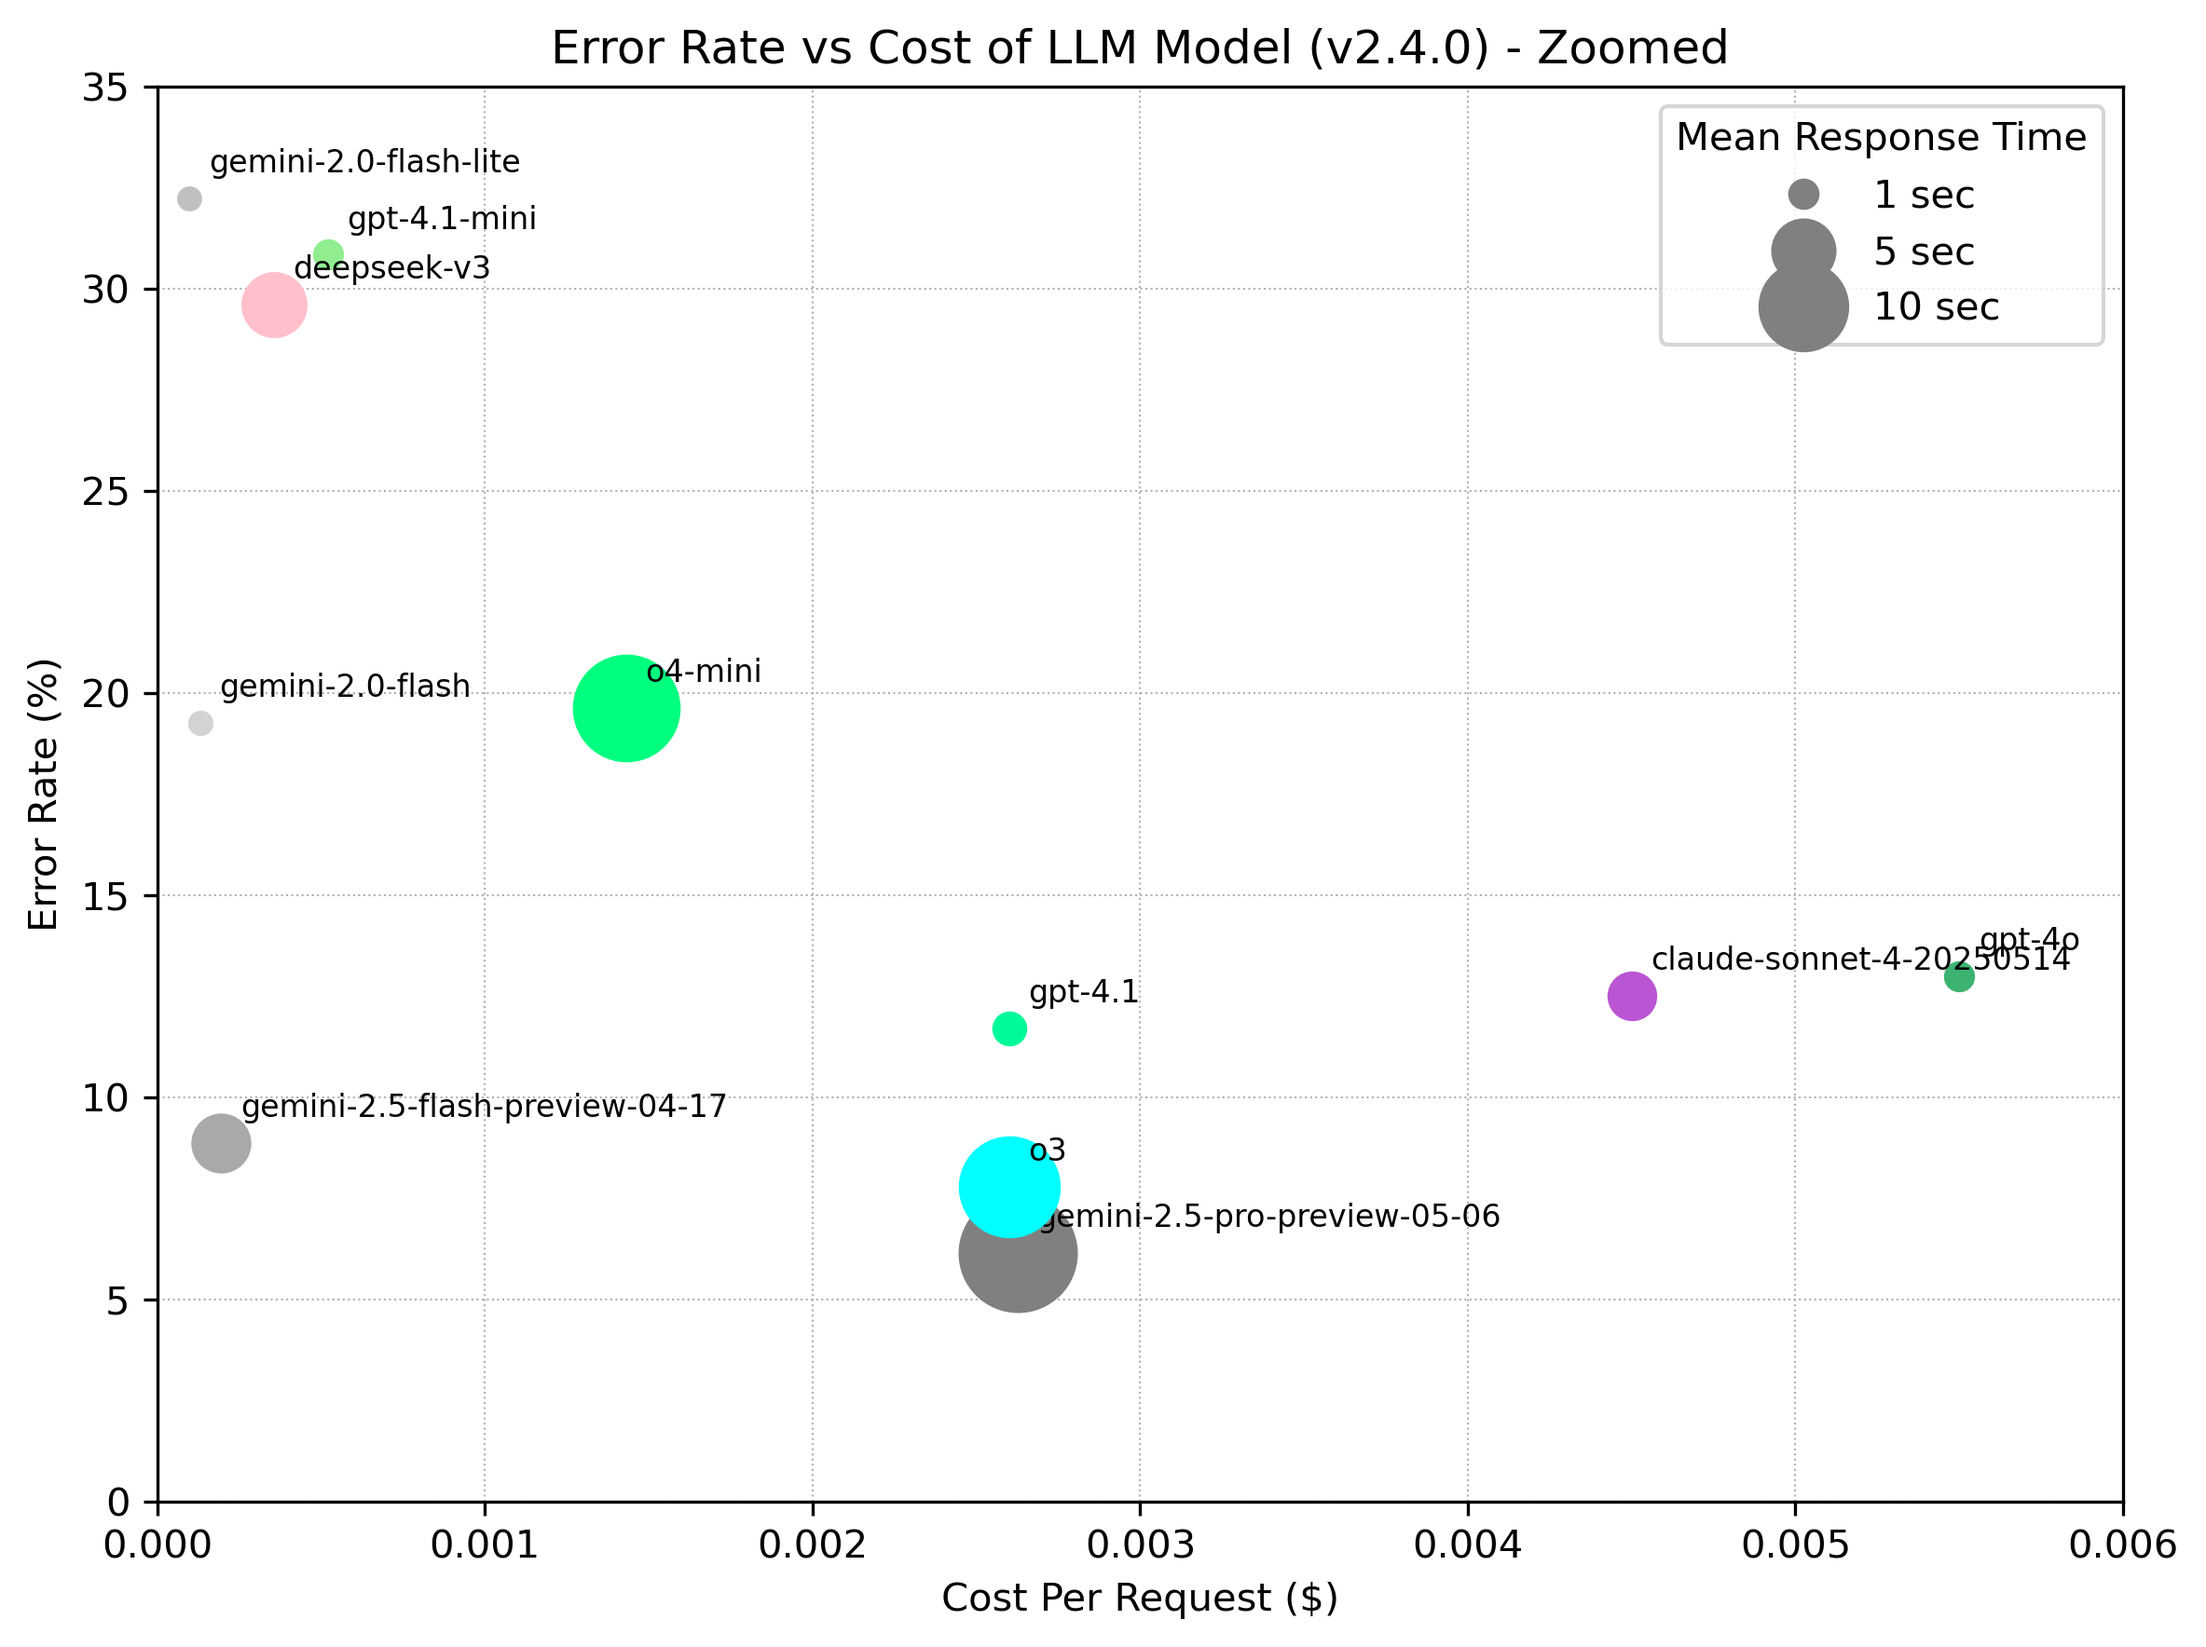
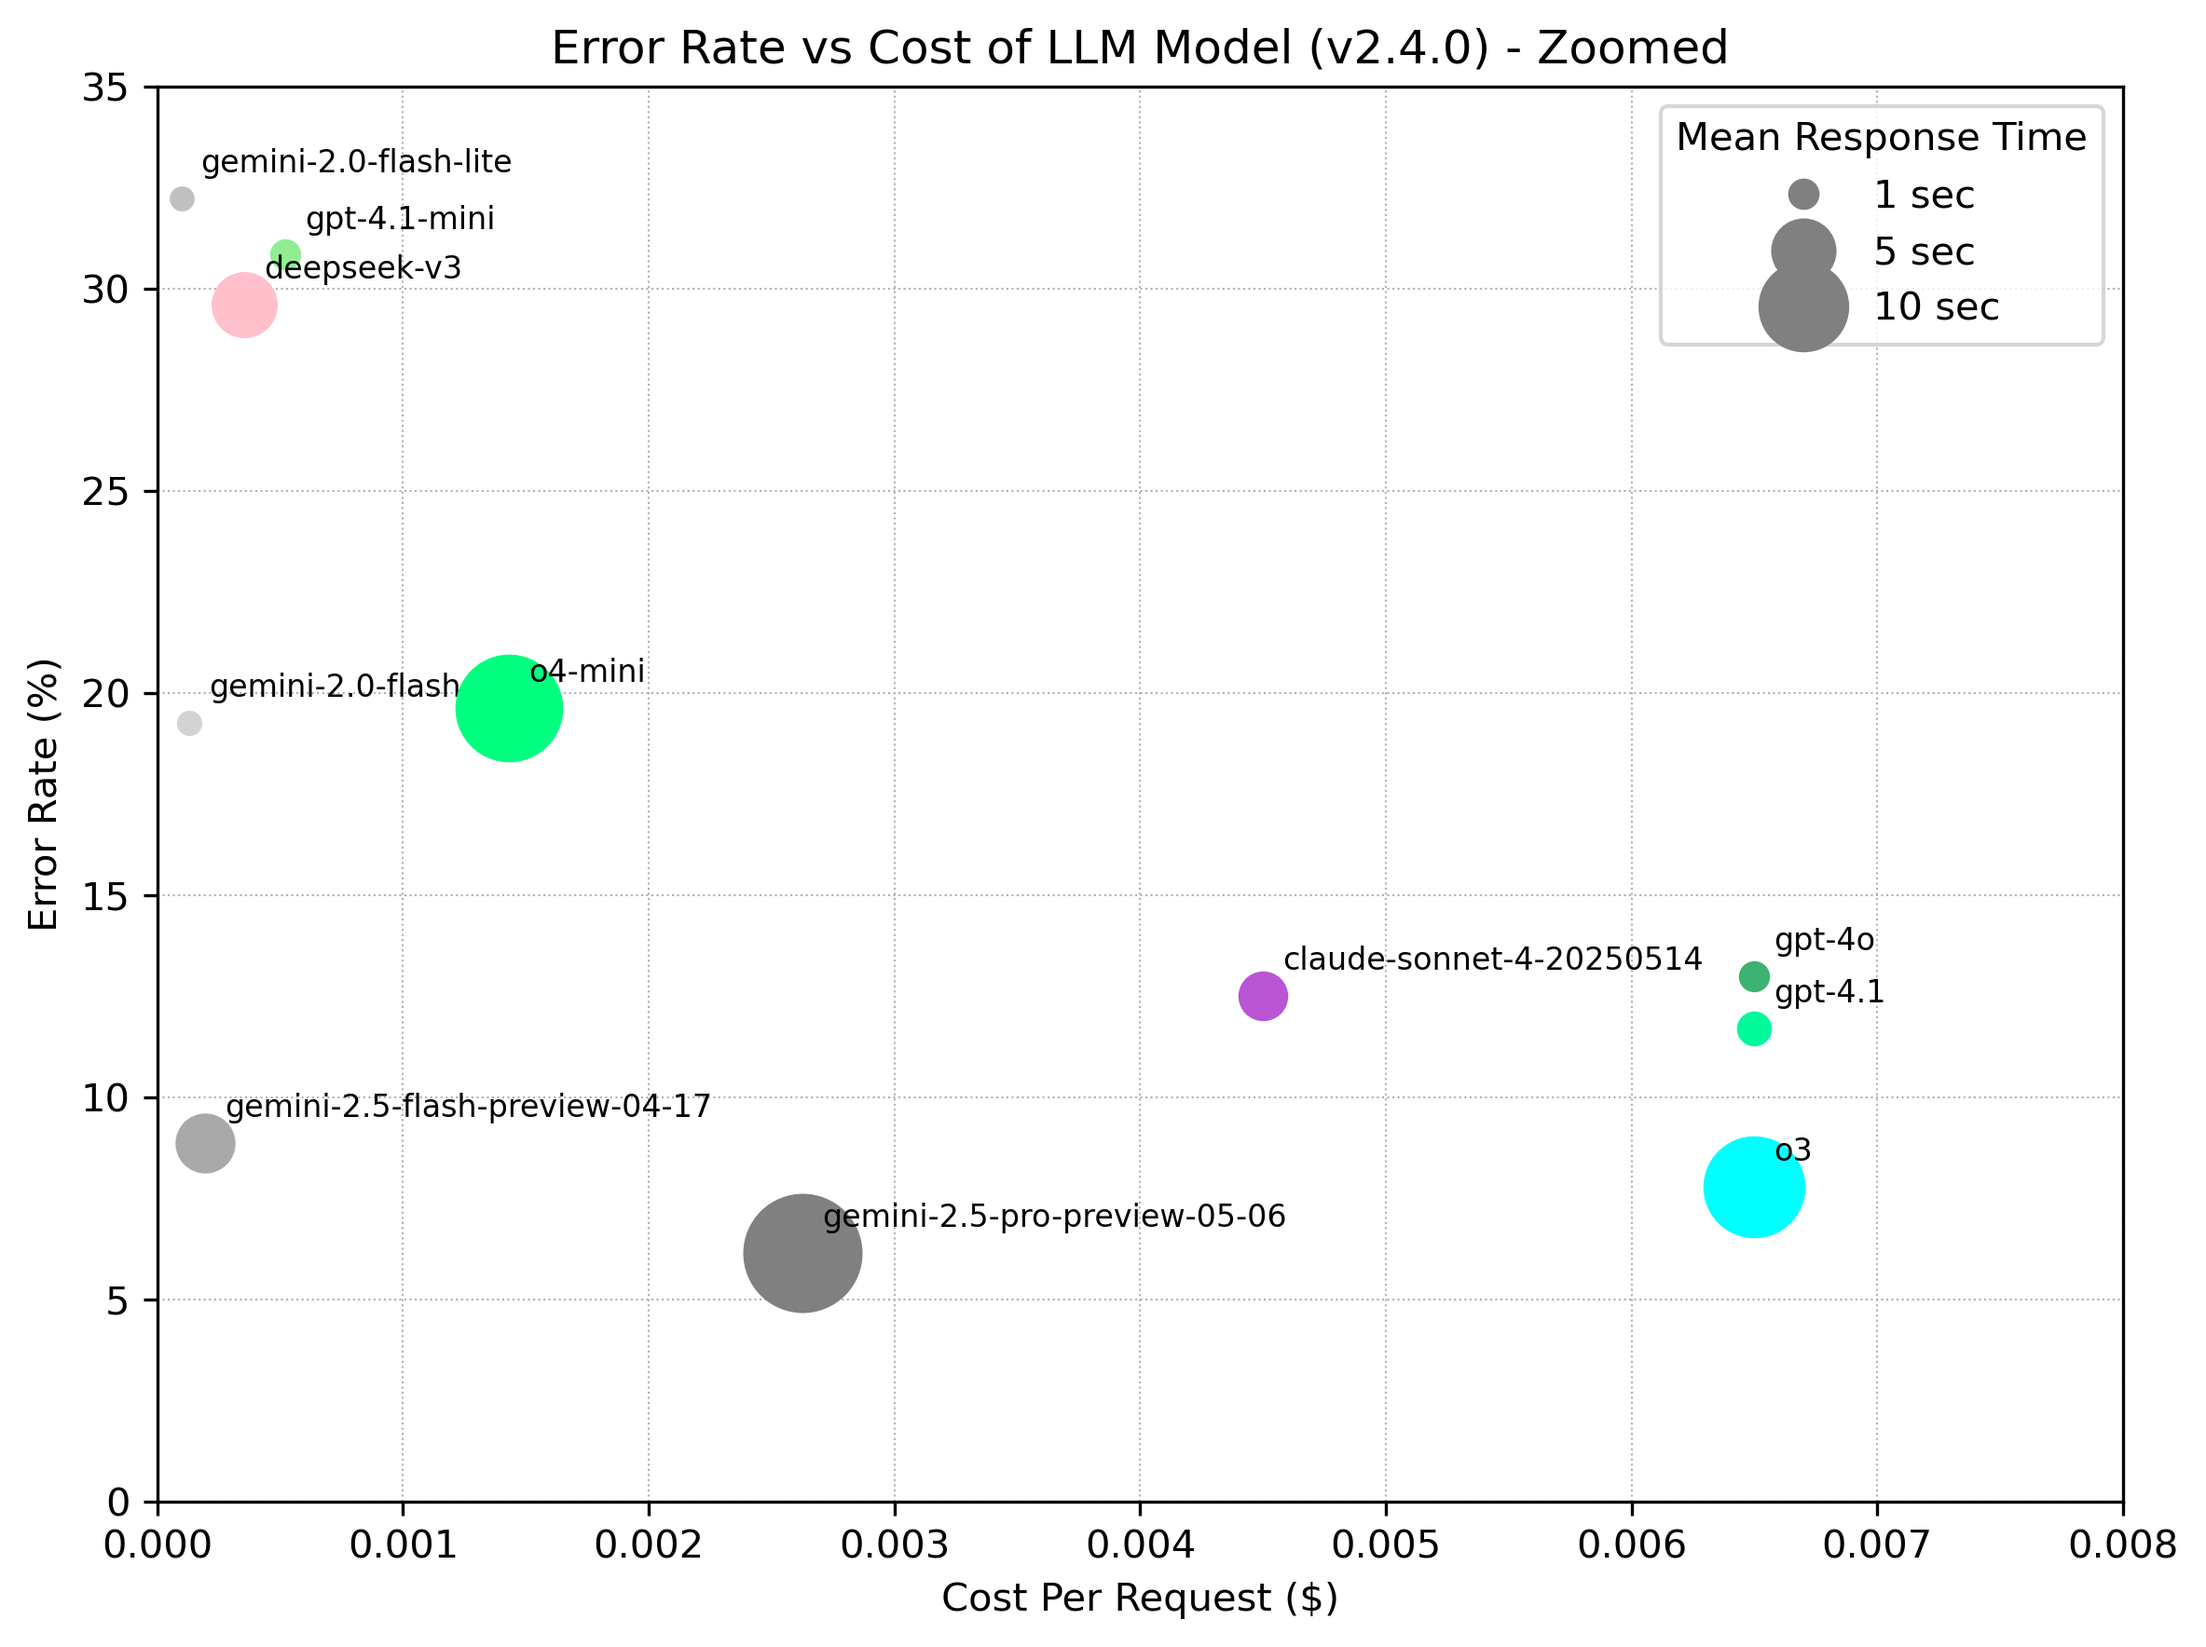
OpenAIの最新モデルのAPI価格を反映した

diff --git a/benchmark/plot_errorrate_vs_cost.py b/benchmark/plot_errorrate_vs_cost.py
@@ -22,17 +22,17 @@ from matplotlib.lines import Line2D
 # マスタ情報 (コスト & 色)
 # ---------------------------------------------------------------------------
 # 価格は sumibi_typical_convert_client のプロンプト (入力500トークン、出力200トークン) を想定し、
-# Anthropic 公式価格表に基づき計算
-# Claude Opus 4: Input $15/1M, Output $75/1M → $0.0225
-# Claude Sonnet 4: Input $3/1M, Output $15/1M → $0.0045
+# OpenAI公式価格表 (2025年1月) およびAnthropic公式価格表に基づき計算
+# OpenAI: https://platform.openai.com/docs/pricing
+# Anthropic Claude: Input $15/1M, Output $75/1M (Opus), Input $3/1M, Output $15/1M (Sonnet)
 MASTER_COST: Dict[str, float] = {
-    "gpt-3.5-turbo": 0.00055,
-    "gpt-4.1-mini": 0.00052,
-    "gpt-4.1": 0.00260,
-    "gpt-4o-mini": 0.000195,
-    "gpt-4o": 0.00550,
-    "o3": 0.00260,
-    "o4-mini": 0.00143,
+    "gpt-3.5-turbo": 0.00055,  # $0.50 input + $1.50 output → (500×0.5 + 200×1.5)/1M = $0.55/1K
+    "gpt-4.1-mini": 0.00052,   # 推定値 (GPT-4o-miniベース)
+    "gpt-4.1": 0.00650,        # $10 input + $30 output → (500×10 + 200×30)/1M = $6.50/1K
+    "gpt-4o-mini": 0.000195,   # $0.15 input + $0.60 output → (500×0.15 + 200×0.60)/1M = $0.195/1K
+    "gpt-4o": 0.0065,          # $5 input + $20 output → (500×5 + 200×20)/1M = $6.50/1K
+    "o3": 0.0065,              # 推定値 (高性能モデルとしてGPT-4oベース)
+    "o4-mini": 0.00143,        # 推定値
     "deepseek-v3": 0.000355,
     "gemini-2.0-flash": 0.00013,
     "gemini-2.0-flash-lite": 0.0000975,
@@ -190,7 +190,7 @@ def main():
     parser = argparse.ArgumentParser(description="Plot error rate vs cost (v2.4.0)")
     parser.add_argument("-o", "--output", help="Output image file path")
     parser.add_argument("--range", type=int, default=0, choices=[0, 1],
-                        help="Axis range mode: 0=default (0-70%%, auto x), 1=zoomed (0-35%%, 0-0.006$)")
+                        help="Axis range mode: 0=default (0-70%%, auto x), 1=zoomed (0-35%%, 0-0.008$)")
     args = parser.parse_args()
 
     plt.figure(figsize=(8, 6))
@@ -226,7 +226,7 @@ def main():
     elif args.range == 1:
         # ズーム範囲
         plt.ylim(0, 35)
-        plt.xlim(0, 0.006)
+        plt.xlim(0, 0.008)
 
     # 座標スケールを線形のまま維持（必要に応じて変更可）
 

diff --git a/benchmark/README.md b/benchmark/README.md
@@ -2,7 +2,7 @@
 benchmark ディレクトリの README
 各モデルのベンチマーク結果（平均応答時間・文字誤り率）をまとめ、傾向分析を行った内容を記載しています。
 -->
-# ベンチマーク結果まとめ
+# ベンチマーク結果まとめ (計測時期 2025年8月)
 
 このディレクトリには、Sumibi クライアントを用いて取得した各モデルの応答時間および文字誤り率（CER: Character Error Rate）を集計・可視化するスクリプトと測定結果が含まれています。なお、Sumibiはローマ字かな漢字変換という性質上、応答時間が約1秒を超えるとユーザビリティが低下します。そのため、応答時間の長いモデルは実用面で不利であり、評価においても高く評価されにくい点に留意してください。
 
@@ -67,36 +67,50 @@ Sumibi のユーザビリティを左右する主要因として、以下の3つ
 
 - **1 秒未満でバランス良好**  \
   - `gemini-2.0-flash`：**0.61 s / 19.3 % / $0.00013** ─ 最速級で低コスト。  \
-  - `gpt-4o`：**0.98 s / 13.0 % / $0.00550** ─ 高精度だが高価。  \
 
-- **1 秒未満だがトレードオフあり**  \
+- **1 秒未満だがコストが高い**  \
+  - `gpt-4o`：**0.98 s / 13.0 % / $0.0065** ─ 高精度だが高価。  \
   - `gemini-2.0-flash-lite`：0.59 s / 32.2 % / $0.0000975 ─ 最安だが精度は控えめ。  \
   - `gpt-3.5-turbo`：0.83 s / 64.5 % / $0.00055 ─ 高速だが誤り率が高い。  \
   - `gpt-4.1-mini`：0.98 s / 30.8 % / $0.00052 ─ 中コスト・中精度。  \
   - `gpt-4o-mini`：1.06 s / 51.5 % / $0.000195 ─ 低価格だが精度が課題。  \
 
 - **1 秒以上で実用性が落ちる**  \
-  - `gpt-4.1`：1.28 s / 11.7 % / $0.00260 ─ 高精度だが 1 s を超える。  \
-  - `gemini-2.5-flash-preview-04-17`：4.18 s / 8.9 % / $0.000195 ─ 超高精度だが遅延大。  \
+  - `gpt-4.1`：1.28 s / 11.7 % / $0.0065 ─ 高精度だが高コスト。  \
+  - `claude-sonnet-4-20250514`：2.79 s / 12.5 % / $0.0045 ─ 高精度で中程度のコスト。  \
+  - `gemini-2.5-flash-preview-04-17`：4.18 s / 8.9 % / $0.000195 ─ 超高精度で低コスト。  \
   - `deepseek-v3`：5.14 s / 29.6 % / $0.000355 ─ 低コストだが遅い。  \
+  - `o3`：12.77 s / 7.8 % / $0.0065 ─ 最高精度だが遅延大、高コスト。  \
   - `o4-mini`：14.31 s / 19.6 % / $0.00143 ─ レイテンシー面で不向き。  \
-  - `gemini-2.5-pro-preview-05-06`：17.67 s / 6.2 % / $0.002625 ─ 最高精度だが非常に遅い。  \
+  - `gemini-2.5-pro-preview-05-06`：17.67 s / 6.2 % / $0.002625 ─ 最高精度で低コストだが非常に遅い。  \
 
 ### コスト面の評価
+
 - **コスト最優先で実用的**  \
   - `gemini-2.0-flash-lite`：**$0.0000975** — 0.59 s / CER 32 %。最安値。  \
   - `gemini-2.0-flash`：**$0.00013** — 0.61 s / CER 19 %。速度・精度とも実用域。  \
+  - `gpt-4o-mini`：$0.000195 — 1.06 s / CER 51.5 %。低コストだが精度が課題。  \
 
-- **精度重視で許容できるコスト**  \
-  - `gemini-2.5-flash-preview-04-17`：$0.000195 — CER 8.9 ％。遅延 4 s を許容できれば高コスパ。  \
-  - `gpt-4.1`：$0.00260 — CER 11.7 ％、1.3 s。やや高価だが高精度。  \
+- **精度重視でコスパ良好**  \
+  - `gemini-2.5-flash-preview-04-17`：$0.000195 — CER 8.9 ％。遅延 4 s を許容できれば最高コスパ。  \
+  - `gemini-2.5-pro-preview-05-06`：$0.002625 — CER 6.2 %。最高精度で相対的に低コスト。  \
+  - `claude-sonnet-4-20250514`：$0.0045 — CER 12.5 %、2.8 s。中程度のコストで良好な精度。  \
 
-- **最高性能だが高コスト**  \
-  - `gpt-4o`：$0.00550 — CER 13 ％、0.98 s。速度と精度は申し分ないがコストが最も高い。  \
+- **高性能だが高コスト**  \
+  - `gpt-4o`：$0.0065 — CER 13 %、0.98 s。速度と精度は良好だが高コスト。  \
+  - `gpt-4.1`：$0.0065 — CER 11.7 %、1.28 s。高精度だが高コスト。  \
+  - `o3`：$0.0065 — CER 7.8 %、12.77 s。最高精度だが遅延大、高コスト。  \
 
 ### 総合評価
-コストを重視しつつ速度と精度のバランスを取るなら、`gemini-2.0-flash` が最適です。  
-より高い精度を求めコストを許容できる場合は、`gpt-4.1` を次点として推奨します。
+**推奨モデル:**
+
+1. **コスト重視**: `gemini-2.0-flash` が最適。速度・精度・コストのバランスが優秀。
+
+2. **精度重視**: `gemini-2.5-flash-preview-04-17` が第一選択。CER 8.9%で低コスト。遅延を許容できるなら最高コスパ。
+
+3. **最高精度**: 遅延を許容できる場合は `gemini-2.5-pro-preview-05-06` が最高精度（CER 6.2%）で相対的に低コスト。
+
+4. **OpenAIモデル**: GPT-4o・GPT-4.1は高性能だが高コストのため、コスト重視の用途には不向き。
 
 ## ベンチマーク環境の構築手順
 
